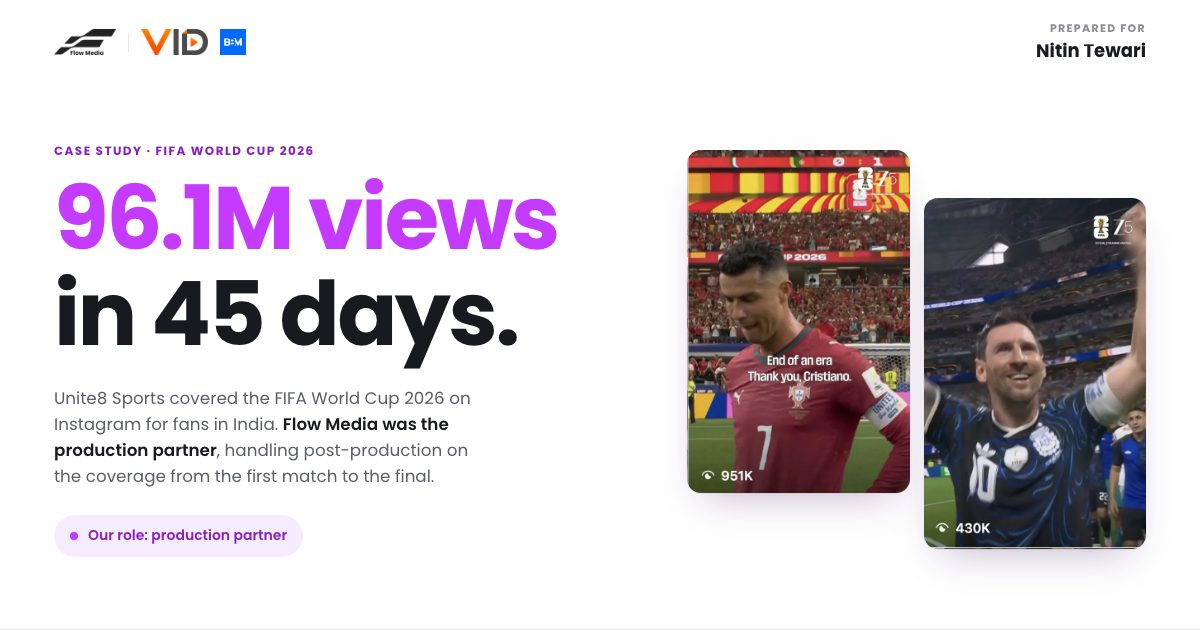
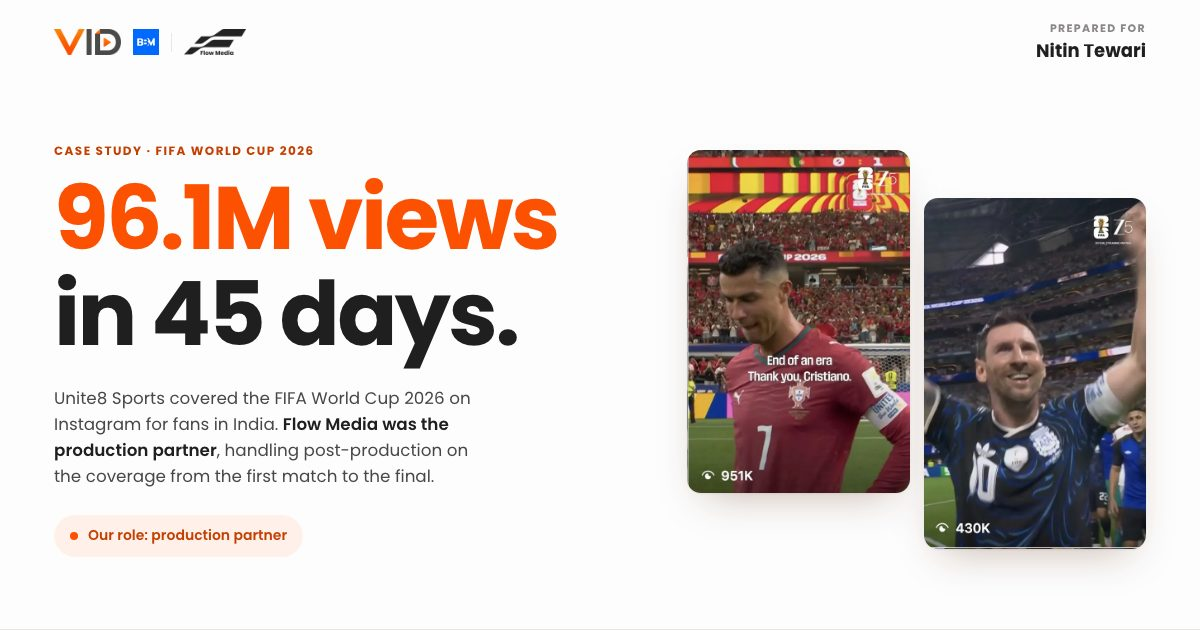
Switch to VID x BBM primary branding (VID orange/charcoal), Flow Media as production partner mark

Changed region(s): [[0.0308, 0.2111, 0.4625, 0.4222], [0.0308, 0.0302, 0.2158, 0.0905], [0.0308, 0.8143, 0.2467, 0.8746]]

diff --git a/index.html b/index.html
@@ -10,16 +10,16 @@
 <meta property="og:description" content="A short case study. Flow Media was the production partner on Unite8 Sports' World Cup coverage on Instagram.">
 <meta property="og:image" content="https://viewsintodollars.github.io/flow-media-fifa-case-study/assets/og.jpg">
 <meta property="og:type" content="website">
-<meta name="theme-color" content="#FFFFFF">
+<meta name="theme-color" content="#FDFDFD">
 <link rel="preconnect" href="https://fonts.googleapis.com">
 <link rel="preconnect" href="https://fonts.gstatic.com" crossorigin>
 <link href="https://fonts.googleapis.com/css2?family=Poppins:wght@400;500;600;700&display=swap" rel="stylesheet">
 <link rel="preload" as="image" href="assets/r-ronaldo.webp">
 <style>
 :root{
-  --acc:#C43AFF; --acc-ink:#8A1FC0; --tint:#F6ECFF;
-  --ink:#181A1F; --grey:#5B5E66; --soft:#8A8D94;
-  --line:#E7E4EA; --surf:#F7F6F8; --bg:#FFFFFF;
+  --acc:#FC5101; --acc-ink:#C43F00; --tint:#FFF1EA;
+  --ink:#1F1F1F; --grey:#474747; --soft:#8A8786;
+  --line:#ECE7E3; --surf:#F7F5F3; --bg:#FDFDFD;
   --pad:clamp(20px,4.5vw,64px);
 }
 *{box-sizing:border-box;margin:0;padding:0}
@@ -57,7 +57,7 @@ p strong{color:var(--ink);font-weight:600}
 .for small{display:block;font-size:11px;font-weight:700;letter-spacing:.12em;color:var(--soft)}
 .for b{font-size:clamp(15px,1.5vw,20px)}
 .posters{display:grid;grid-template-columns:1fr 1fr;gap:14px;align-items:start}
-.posters img{border-radius:14px;box-shadow:0 1px 2px rgba(60,20,90,.06),0 18px 40px -18px rgba(60,20,90,.35)}
+.posters img{border-radius:14px;box-shadow:0 1px 2px rgba(90,40,10,.06),0 18px 40px -18px rgba(90,40,10,.35)}
 .posters img:last-child{margin-top:48px}
 
 /* ---------- shared blocks ---------- */
@@ -94,7 +94,7 @@ td.r{color:var(--ink);font-weight:600}
 
 /* reels strip */
 .reels{display:grid;grid-template-columns:repeat(4,1fr);gap:clamp(10px,1.4vw,18px)}
-.reel img{border-radius:12px;box-shadow:0 14px 30px -18px rgba(60,20,90,.4)}
+.reel img{border-radius:12px;box-shadow:0 14px 30px -18px rgba(90,40,10,.4)}
 .reel b{display:block;margin-top:10px;font-size:clamp(18px,1.8vw,24px);color:var(--acc);letter-spacing:-.02em}
 .reel span{display:block;font-size:13px;color:var(--grey);line-height:1.35}
 
@@ -166,7 +166,7 @@ a:focus-visible{outline:2px solid var(--acc);outline-offset:3px;border-radius:4p
 <!-- 1 Cover -->
 <section class="slide cover" id="s1" aria-label="Cover">
   <div class="top">
-    <div class="lockup"><img src="assets/flow-dark.png" alt="Flow Media"><span class="sep"></span><img src="assets/vid.png" alt="Views Into Dollars"><img src="assets/bbm.png" alt="Brands Benchmark"></div>
+    <div class="lockup"><img src="assets/vid.png" alt="Views Into Dollars"><img src="assets/bbm.png" alt="Brands Benchmark"><span class="sep"></span><img src="assets/flow-dark.png" alt="Flow Media"></div>
     <div class="for"><small>PREPARED FOR</small><b>Nitin Tewari</b></div>
   </div>
   <div class="body">
@@ -182,12 +182,12 @@ a:focus-visible{outline:2px solid var(--acc);outline-offset:3px;border-radius:4p
       <img src="assets/r-messi.webp" width="536" height="846" alt="Reel: Messi celebration, 430K views">
     </div>
   </div>
-  <div class="foot">Flow Media · Views Into Dollars · Brands Benchmark</div>
+  <div class="foot">Views Into Dollars · Brands Benchmark · Production partner: Flow Media</div>
 </section>
 
 <!-- 2 Our role -->
 <section class="slide" id="s2" aria-label="Our role">
-  <div class="top"><div class="lockup"><img src="assets/flow-dark.png" alt="Flow Media"><span class="sep"></span><img src="assets/vid.png" alt="Views Into Dollars"><img src="assets/bbm.png" alt="Brands Benchmark"></div><span class="num">02 / 07</span></div>
+  <div class="top"><div class="lockup"><img src="assets/vid.png" alt="Views Into Dollars"><img src="assets/bbm.png" alt="Brands Benchmark"><span class="sep"></span><img src="assets/flow-dark.png" alt="Flow Media"></div><span class="num">02 / 07</span></div>
   <div class="body">
     <div class="kicker">01 · Our role</div>
     <h2>We were the <span class="em">production partner</span>.</h2>
@@ -220,7 +220,7 @@ a:focus-visible{outline:2px solid var(--acc);outline-offset:3px;border-radius:4p
 
 <!-- 3 Results -->
 <section class="slide" id="s3" aria-label="Results">
-  <div class="top"><div class="lockup"><img src="assets/flow-dark.png" alt="Flow Media"><span class="sep"></span><img src="assets/vid.png" alt="Views Into Dollars"><img src="assets/bbm.png" alt="Brands Benchmark"></div><span class="num">03 / 07</span></div>
+  <div class="top"><div class="lockup"><img src="assets/vid.png" alt="Views Into Dollars"><img src="assets/bbm.png" alt="Brands Benchmark"><span class="sep"></span><img src="assets/flow-dark.png" alt="Flow Media"></div><span class="num">03 / 07</span></div>
   <div class="body">
     <div class="kicker">02 · Results</div>
     <h2>96.1M views, <span class="em">1.29M a day</span>, for 45 days straight.</h2>
@@ -240,7 +240,7 @@ a:focus-visible{outline:2px solid var(--acc);outline-offset:3px;border-radius:4p
 
 <!-- 4 Reels -->
 <section class="slide" id="s4" aria-label="Reels">
-  <div class="top"><div class="lockup"><img src="assets/flow-dark.png" alt="Flow Media"><span class="sep"></span><img src="assets/vid.png" alt="Views Into Dollars"><img src="assets/bbm.png" alt="Brands Benchmark"></div><span class="num">04 / 07</span></div>
+  <div class="top"><div class="lockup"><img src="assets/vid.png" alt="Views Into Dollars"><img src="assets/bbm.png" alt="Brands Benchmark"><span class="sep"></span><img src="assets/flow-dark.png" alt="Flow Media"></div><span class="num">04 / 07</span></div>
   <div class="body">
     <div class="kicker">03 · Where the views came from</div>
     <h2>Half the posts were reels. They brought in <span class="em">74.6M of the 96.1M views</span>.</h2>
@@ -271,7 +271,7 @@ a:focus-visible{outline:2px solid var(--acc);outline-offset:3px;border-radius:4p
 
 <!-- 5 Top reels -->
 <section class="slide" id="s5" aria-label="Top reels">
-  <div class="top"><div class="lockup"><img src="assets/flow-dark.png" alt="Flow Media"><span class="sep"></span><img src="assets/vid.png" alt="Views Into Dollars"><img src="assets/bbm.png" alt="Brands Benchmark"></div><span class="num">05 / 07</span></div>
+  <div class="top"><div class="lockup"><img src="assets/vid.png" alt="Views Into Dollars"><img src="assets/bbm.png" alt="Brands Benchmark"><span class="sep"></span><img src="assets/flow-dark.png" alt="Flow Media"></div><span class="num">05 / 07</span></div>
   <div class="body">
     <div class="kicker">04 · Top reels</div>
     <h2>Emotion beat <span class="em">information</span>.</h2>
@@ -287,7 +287,7 @@ a:focus-visible{outline:2px solid var(--acc);outline-offset:3px;border-radius:4p
 
 <!-- 6 What made it work -->
 <section class="slide" id="s6" aria-label="What made it work">
-  <div class="top"><div class="lockup"><img src="assets/flow-dark.png" alt="Flow Media"><span class="sep"></span><img src="assets/vid.png" alt="Views Into Dollars"><img src="assets/bbm.png" alt="Brands Benchmark"></div><span class="num">06 / 07</span></div>
+  <div class="top"><div class="lockup"><img src="assets/vid.png" alt="Views Into Dollars"><img src="assets/bbm.png" alt="Brands Benchmark"><span class="sep"></span><img src="assets/flow-dark.png" alt="Flow Media"></div><span class="num">06 / 07</span></div>
   <div class="body">
     <div class="kicker">05 · What made the edits work</div>
     <h2>Cut for Instagram, <span class="em">cut for India</span>.</h2>
@@ -308,7 +308,7 @@ a:focus-visible{outline:2px solid var(--acc);outline-offset:3px;border-radius:4p
 
 <!-- 7 Close -->
 <section class="slide close" id="s7" aria-label="Contact">
-  <div class="top"><div class="lockup"><img src="assets/flow-dark.png" alt="Flow Media"><span class="sep" style="background:#E2CDF2"></span><img src="assets/vid.png" alt="Views Into Dollars"><img src="assets/bbm.png" alt="Brands Benchmark"></div><span class="num">07 / 07</span></div>
+  <div class="top"><div class="lockup"><img src="assets/vid.png" alt="Views Into Dollars"><img src="assets/bbm.png" alt="Brands Benchmark"><span class="sep" style="background:#F6CDB6"></span><img src="assets/flow-dark.png" alt="Flow Media"></div><span class="num">07 / 07</span></div>
   <div class="body">
     <div class="kicker">Next</div>
     <h2>Your new show, <span class="em">cut the same way</span>.</h2>
@@ -318,7 +318,7 @@ a:focus-visible{outline:2px solid var(--acc);outline-offset:3px;border-radius:4p
       <div class="person"><b>Jayesh Sinha</b><small>Founder, Views Into Dollars</small><a href="https://wa.me/919112137827">WhatsApp +91 91121 37827</a><a href="mailto:jayesh@viewsintodollars.com">jayesh@viewsintodollars.com</a></div>
     </div>
   </div>
-  <div class="foot">Flow Media · Views Into Dollars · Brands Benchmark</div>
+  <div class="foot">Views Into Dollars · Brands Benchmark · Production partner: Flow Media</div>
 </section>
 
 <script>
